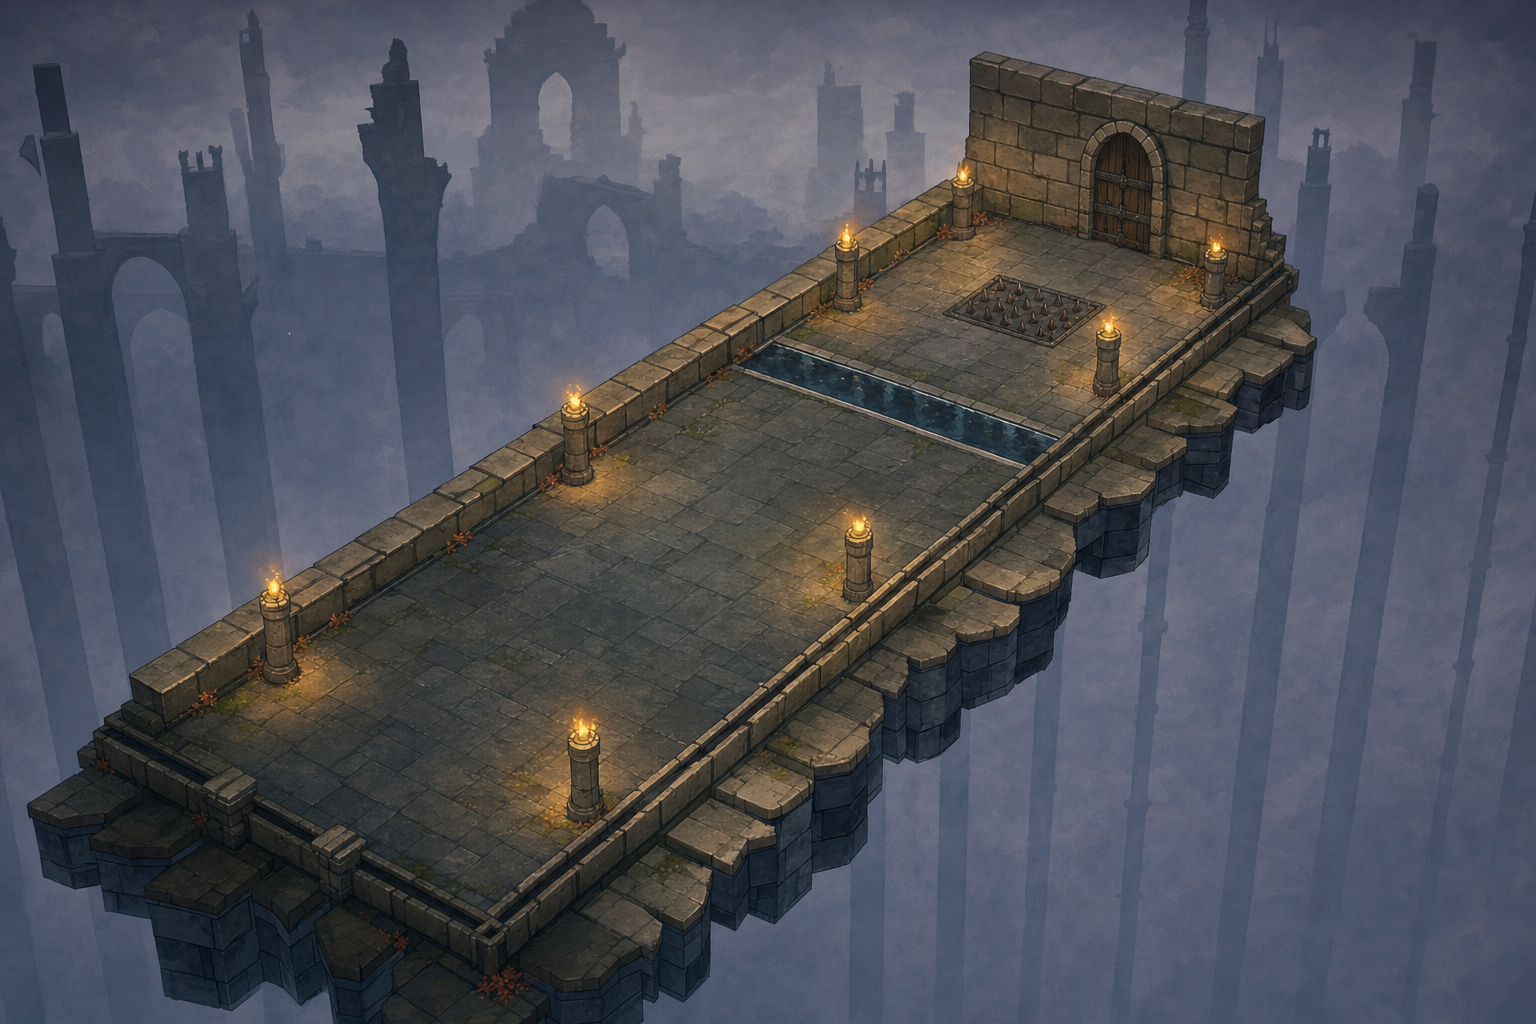
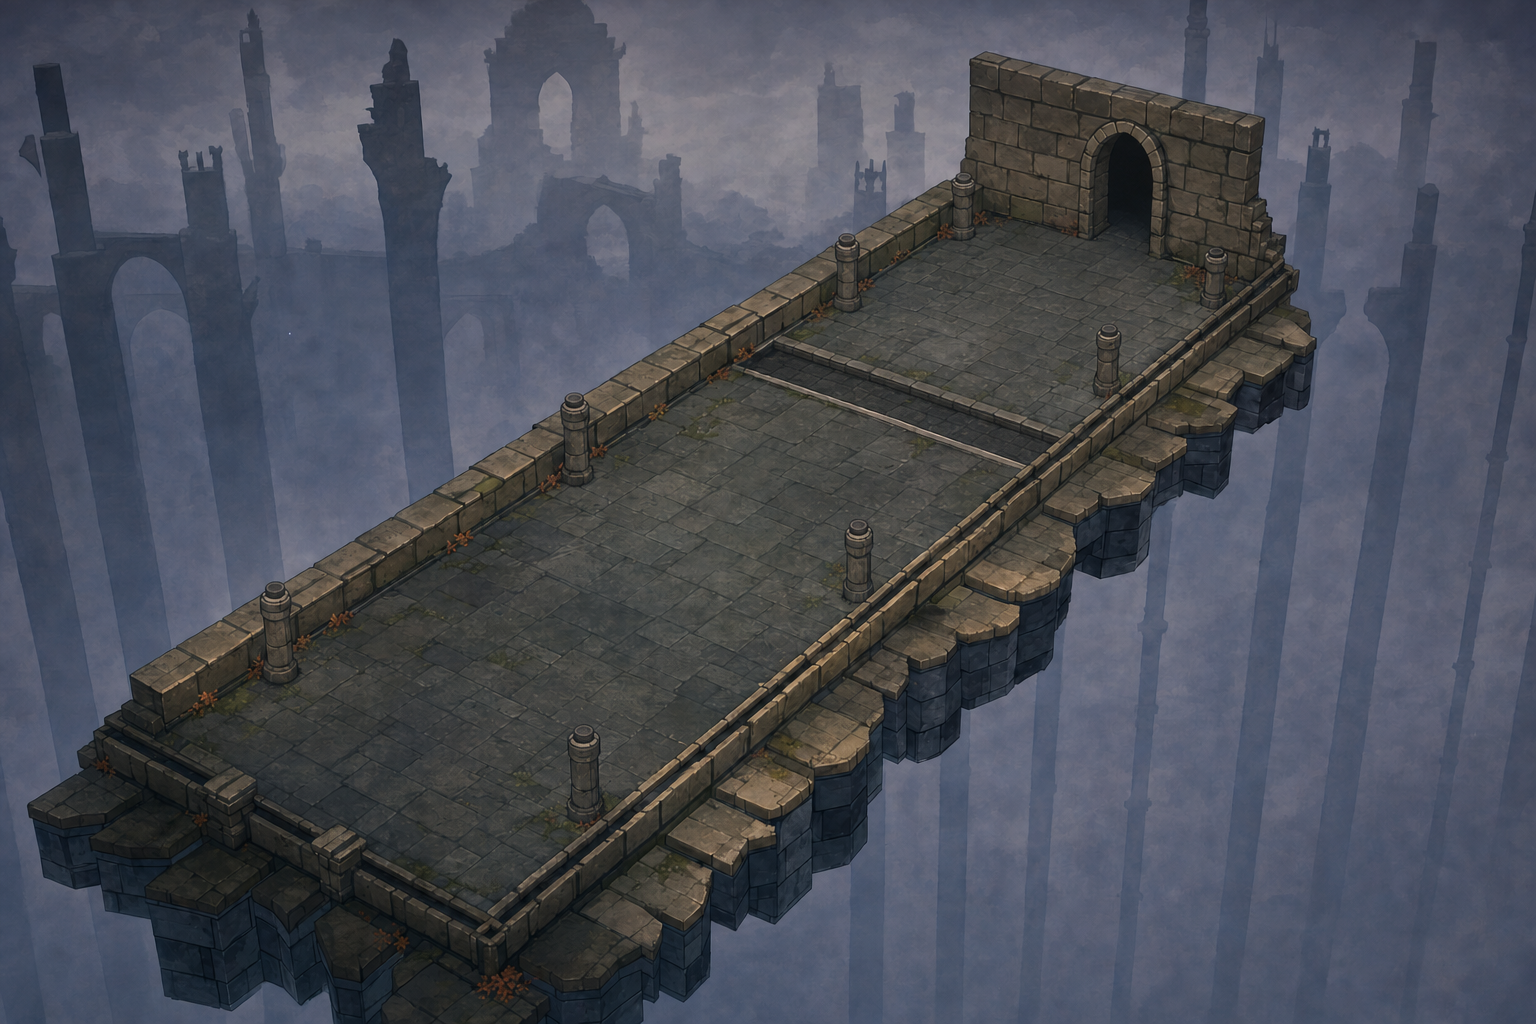
GP-8: game plates swap in; 3D flames, doors, candles, urns, hazards and water show over the clean plate; ROOMS keyed by layout and variant

diff --git a/docs/reference/art_core.md b/docs/reference/art_core.md
@@ -353,3 +353,17 @@ The first prototype (an old ChatGPT painting on proxy walls, 15 degree pitch) is
 - Still different: the Antessala painting keeps a few painted props (vases, a crate, a post stub) near the 3D breakables (the 3D ones break, the
   painted ones stay: ask the next repaint to erase them); the Sala 00's painted altar candles stay lit after the Blessing.
 - CPU captures at the painter poses: `docs/gallery/gp8_refine_2026-11-27/` (one water, one flame per brazier, plate on the painted plate).
+
+### GP-8 game plates (2026-11-27): the painting is only the static stage
+- Rule (Daniel): everything that moves, changes state or breaks is the game's own 3D on a clean plate. `assets/rooms/painted/{sala01,sala00,antessala}.png`
+  are now the `game_v1/*_jogo.png` plates (same mapping, `v_span` `PaintedHall.UNIFORM` for the Salao); the lit paintings are kept in
+  `docs/art/painted_gpt/lit_v3/*_lit.png` (not in the pack).
+- Shown again: flames, cards and lights (`HIDE_CARDS` removed; the 3D flame burns on the painted cold bowl, nothing doubled), door leaves and
+  their black faces (they no longer wear the painting nor swap back on open: `_worn`/`_process` gone), the altar's candles and the Salao's
+  urns (meta `PaintedHall.KEEP_3D`, set on the node: it and its subtree are never dressed), `HazardPiece` nodes, the water (`shallow_water` left
+  `HIDDEN`; `HIDDEN` is only the floor decals and the abyss's fog, mist and glow). Breakables, door signs and rings are built after the
+  painting and were never dressed.
+- `PROPS` keeps one entry: the hall's east-pier brazier (17, -14.8), a wall in the plate, so its fire and light stay hidden.
+- New rooms are data: `ROOMS` keys are the layout id or `"id:variant"` (`PaintedHall.key_of`, `RoomLayout.variant_index` set by
+  `variant()`); each entry has its pose and `v_span` (`STRETCH` 1.0 or `UNIFORM`). A hall (or any room) with a hazard is painted too.
+- Gameplay unchanged (`--smoke` seed 5 same RESULT). Tests: `test_painted_hall`, `test_painted_props`.
